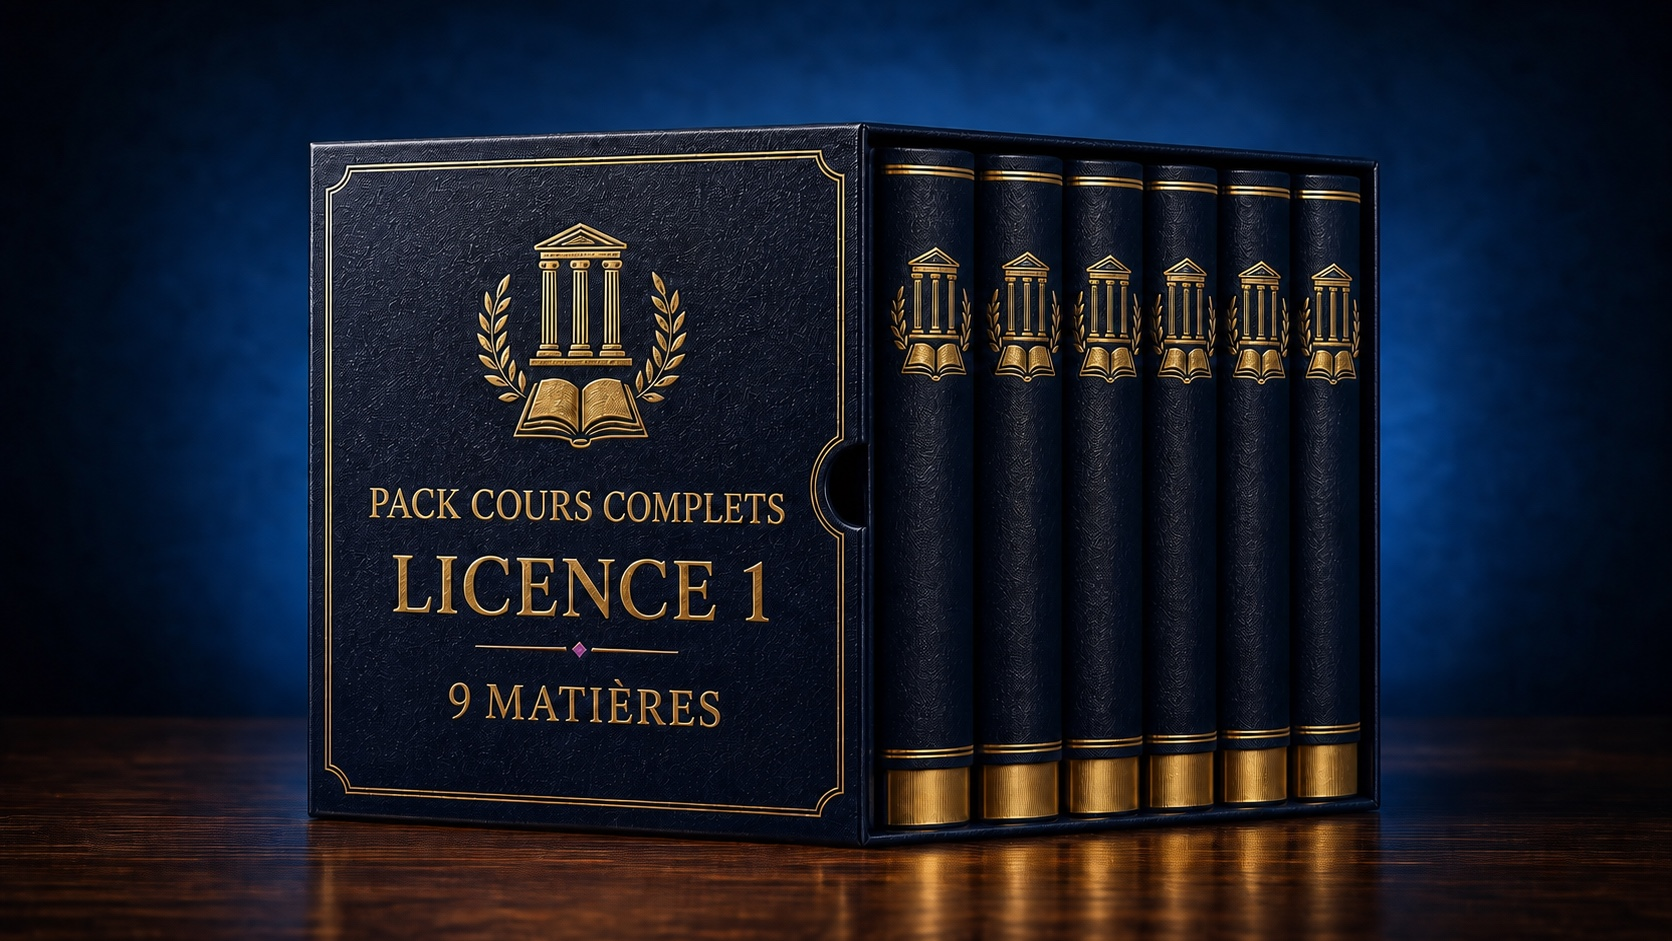
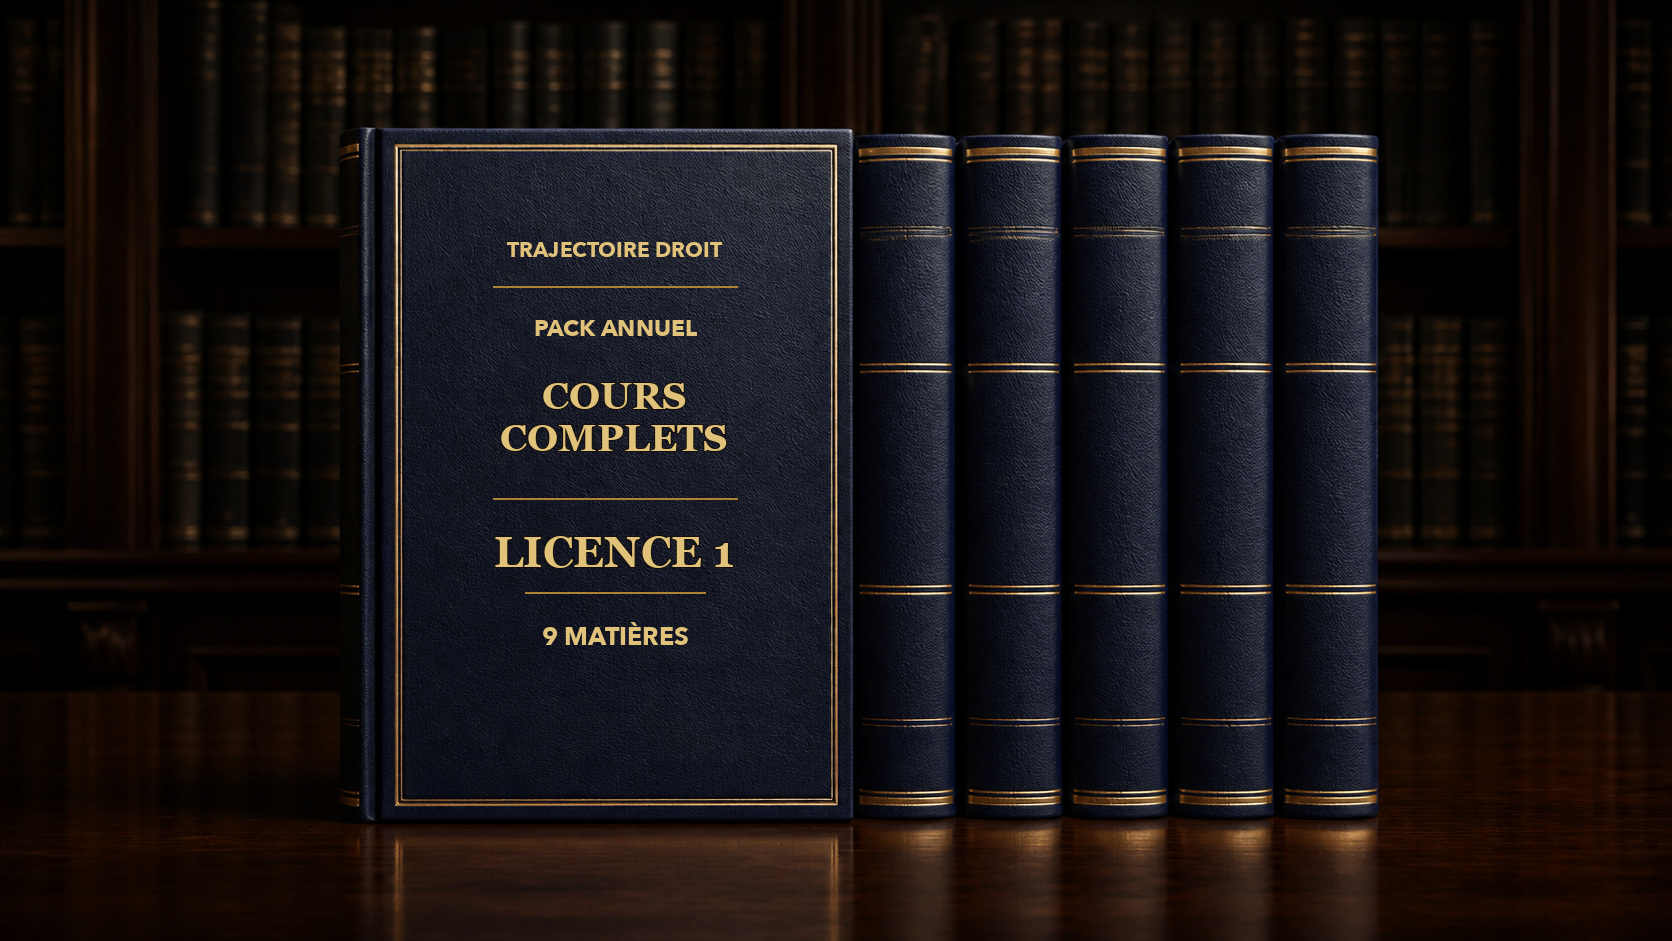
Uniformise le design des packs annuels

diff --git a/revisions.html b/revisions.html
@@ -301,15 +301,15 @@
         <p class="lead" style="margin-bottom:30px">Chaque pack réunit les recueils disponibles de ton année. Tu retrouves, pour chaque arrêt, les faits, la procédure, la solution et la portée.</p>
         <div class="grid-3">
           <article class="card card--product fade-in">
-            <div class="product__thumb has-cover"><span class="badge badge--format">Pack annuel</span><img src="assets/covers/pack-fiches-arret-l1.jpg?v=20260821" alt="Pack annuel de fiches d'arrêt L1, couverture Trajectoire Droit" loading="lazy"></div>
+            <div class="product__thumb has-cover"><span class="badge badge--format">Pack annuel</span><img src="assets/covers/pack-fiches-arret-l1.jpg?v=20260821b" alt="Pack annuel de fiches d'arrêt L1, couverture Trajectoire Droit" loading="lazy"></div>
             <div class="product__body"><h3 class="product__title">Fiches d'arrêt L1</h3><div class="product__meta"><span>6 matières</span><span>·</span><span>Accès à vie</span></div><p class="product__desc">Les arrêts essentiels d'introduction au droit, de constitutionnel, de droit des personnes, de la famille et de relations internationales.</p><div><span class="product__price-old">59,94 €</span><span class="product__price">45 €</span><span class="badge badge--success" style="margin-left:6px">-25 %</span></div><button type="button" class="btn btn--primary btn--full product__cta" data-tjd-produit="pack-fiches-arret-l1">Acheter le pack · 45 €</button></div>
           </article>
           <article class="card card--product fade-in">
-            <div class="product__thumb has-cover"><span class="badge badge--format">Pack annuel</span><img src="assets/covers/pack-fiches-arret-l2.jpg?v=20260821" alt="Pack annuel de fiches d'arrêt L2, couverture Trajectoire Droit" loading="lazy"></div>
+            <div class="product__thumb has-cover"><span class="badge badge--format">Pack annuel</span><img src="assets/covers/pack-fiches-arret-l2.jpg?v=20260821b" alt="Pack annuel de fiches d'arrêt L2, couverture Trajectoire Droit" loading="lazy"></div>
             <div class="product__body"><h3 class="product__title">Fiches d'arrêt L2</h3><div class="product__meta"><span>5 matières</span><span>·</span><span>Accès à vie</span></div><p class="product__desc">Droit administratif, contrats, obligations, droit pénal et droit des biens dans un seul achat.</p><div><span class="product__price-old">49,95 €</span><span class="product__price">38 €</span><span class="badge badge--success" style="margin-left:6px">-24 %</span></div><button type="button" class="btn btn--primary btn--full product__cta" data-tjd-produit="pack-fiches-arret-l2">Acheter le pack · 38 €</button></div>
           </article>
           <article class="card card--product fade-in">
-            <div class="product__thumb has-cover"><span class="badge badge--format">Pack annuel</span><img src="assets/covers/pack-fiches-arret-l3.jpg?v=20260821" alt="Pack annuel de fiches d'arrêt L3, couverture Trajectoire Droit" loading="lazy"></div>
+            <div class="product__thumb has-cover"><span class="badge badge--format">Pack annuel</span><img src="assets/covers/pack-fiches-arret-l3.jpg?v=20260821b" alt="Pack annuel de fiches d'arrêt L3, couverture Trajectoire Droit" loading="lazy"></div>
             <div class="product__body"><h3 class="product__title">Fiches d'arrêt L3</h3><div class="product__meta"><span>5 matières</span><span>·</span><span>Accès à vie</span></div><p class="product__desc">Procédure pénale, sociétés, contrats spéciaux, droit commercial et droit du travail.</p><div><span class="product__price-old">49,95 €</span><span class="product__price">38 €</span><span class="badge badge--success" style="margin-left:6px">-24 %</span></div><button type="button" class="btn btn--primary btn--full product__cta" data-tjd-produit="pack-fiches-arret-l3">Acheter le pack · 38 €</button></div>
           </article>
         </div>

diff --git a/cours-fiches.html b/cours-fiches.html
@@ -301,15 +301,15 @@
         <p class="lead" style="margin-bottom:30px">Chaque matière conserve son document complet, avec ses fiches détaillées, ses plans et ses annexes. Tu paies environ 25 % de moins que matière par matière.</p>
         <div class="grid-3">
           <article class="card card--product fade-in">
-            <div class="product__thumb has-cover"><span class="badge badge--format">Pack annuel</span><img src="assets/covers/pack-cours-complets-l1.jpg?v=20260821" alt="Pack annuel de cours complets L1, couverture Trajectoire Droit" loading="lazy"></div>
+            <div class="product__thumb has-cover"><span class="badge badge--format">Pack annuel</span><img src="assets/covers/pack-cours-complets-l1.jpg?v=20260821b" alt="Pack annuel de cours complets L1, couverture Trajectoire Droit" loading="lazy"></div>
             <div class="product__body"><h3 class="product__title">Cours complets L1</h3><div class="product__meta"><span>9 matières</span><span>·</span><span>Accès à vie</span></div><p class="product__desc">Les neuf cours complets disponibles pour couvrir les matières fondamentales de la première année.</p><div><span class="product__price-old">179,91 €</span><span class="product__price">135 €</span><span class="badge badge--success" style="margin-left:6px">-25 %</span></div><button type="button" class="btn btn--primary btn--full product__cta" data-tjd-produit="pack-cours-complets-l1">Acheter le pack · 135 €</button></div>
           </article>
           <article class="card card--product fade-in">
-            <div class="product__thumb has-cover"><span class="badge badge--format">Pack annuel</span><img src="assets/covers/pack-cours-complets-l2.jpg?v=20260821" alt="Pack annuel de cours complets L2, couverture Trajectoire Droit" loading="lazy"></div>
+            <div class="product__thumb has-cover"><span class="badge badge--format">Pack annuel</span><img src="assets/covers/pack-cours-complets-l2.jpg?v=20260821b" alt="Pack annuel de cours complets L2, couverture Trajectoire Droit" loading="lazy"></div>
             <div class="product__body"><h3 class="product__title">Cours complets L2</h3><div class="product__meta"><span>6 matières</span><span>·</span><span>Accès à vie</span></div><p class="product__desc">Obligations, administratif, pénal, contrats et biens réunis pour ta deuxième année.</p><div><span class="product__price-old">119,94 €</span><span class="product__price">90 €</span><span class="badge badge--success" style="margin-left:6px">-25 %</span></div><button type="button" class="btn btn--primary btn--full product__cta" data-tjd-produit="pack-cours-complets-l2">Acheter le pack · 90 €</button></div>
           </article>
           <article class="card card--product fade-in">
-            <div class="product__thumb has-cover"><span class="badge badge--format">Pack annuel</span><img src="assets/covers/pack-cours-complets-l3.jpg?v=20260821" alt="Pack annuel de cours complets L3, couverture Trajectoire Droit" loading="lazy"></div>
+            <div class="product__thumb has-cover"><span class="badge badge--format">Pack annuel</span><img src="assets/covers/pack-cours-complets-l3.jpg?v=20260821b" alt="Pack annuel de cours complets L3, couverture Trajectoire Droit" loading="lazy"></div>
             <div class="product__body"><h3 class="product__title">Cours complets L3</h3><div class="product__meta"><span>5 matières</span><span>·</span><span>Accès à vie</span></div><p class="product__desc">Travail, sociétés, commercial, procédure pénale et contrats spéciaux dans un seul pack.</p><div><span class="product__price-old">99,95 €</span><span class="product__price">75 €</span><span class="badge badge--success" style="margin-left:6px">-25 %</span></div><button type="button" class="btn btn--primary btn--full product__cta" data-tjd-produit="pack-cours-complets-l3">Acheter le pack · 75 €</button></div>
           </article>
         </div>

diff --git a/majeures-preparees.html b/majeures-preparees.html
@@ -339,7 +339,7 @@
         <p class="lead" style="margin-bottom:30px">Tu reçois toutes les matières disponibles de ton année, avec le PDF principal et son plan. Le contenu est identique aux achats à l'unité.</p>
         <div class="grid-3">
           <article class="card card--product fade-in">
-            <div class="product__thumb has-cover"><span class="badge badge--format">Pack annuel</span><img src="assets/covers/pack-majeures-l1.jpg?v=20260821" alt="Pack annuel de majeures préparées L1, couverture Trajectoire Droit" loading="lazy"></div>
+            <div class="product__thumb has-cover"><span class="badge badge--format">Pack annuel</span><img src="assets/covers/pack-majeures-l1.jpg?v=20260821b" alt="Pack annuel de majeures préparées L1, couverture Trajectoire Droit" loading="lazy"></div>
             <div class="product__body">
               <h3 class="product__title">Majeures préparées L1</h3>
               <div class="product__meta"><span>3 matières</span><span>·</span><span>6 PDF</span><span>·</span><span>Accès à vie</span></div>
@@ -349,7 +349,7 @@
             </div>
           </article>
           <article class="card card--product fade-in">
-            <div class="product__thumb has-cover"><span class="badge badge--format">Pack annuel</span><img src="assets/covers/pack-majeures-l2.jpg?v=20260821" alt="Pack annuel de majeures préparées L2, couverture Trajectoire Droit" loading="lazy"></div>
+            <div class="product__thumb has-cover"><span class="badge badge--format">Pack annuel</span><img src="assets/covers/pack-majeures-l2.jpg?v=20260821b" alt="Pack annuel de majeures préparées L2, couverture Trajectoire Droit" loading="lazy"></div>
             <div class="product__body">
               <h3 class="product__title">Majeures préparées L2</h3>
               <div class="product__meta"><span>7 matières</span><span>·</span><span>14 PDF</span><span>·</span><span>Accès à vie</span></div>
@@ -359,7 +359,7 @@
             </div>
           </article>
           <article class="card card--product fade-in">
-            <div class="product__thumb has-cover"><span class="badge badge--format">Pack annuel</span><img src="assets/covers/pack-majeures-l3.jpg?v=20260821" alt="Pack annuel de majeures préparées L3, couverture Trajectoire Droit" loading="lazy"></div>
+            <div class="product__thumb has-cover"><span class="badge badge--format">Pack annuel</span><img src="assets/covers/pack-majeures-l3.jpg?v=20260821b" alt="Pack annuel de majeures préparées L3, couverture Trajectoire Droit" loading="lazy"></div>
             <div class="product__body">
               <h3 class="product__title">Majeures préparées L3</h3>
               <div class="product__meta"><span>8 matières</span><span>·</span><span>16 PDF</span><span>·</span><span>Accès à vie</span></div>
